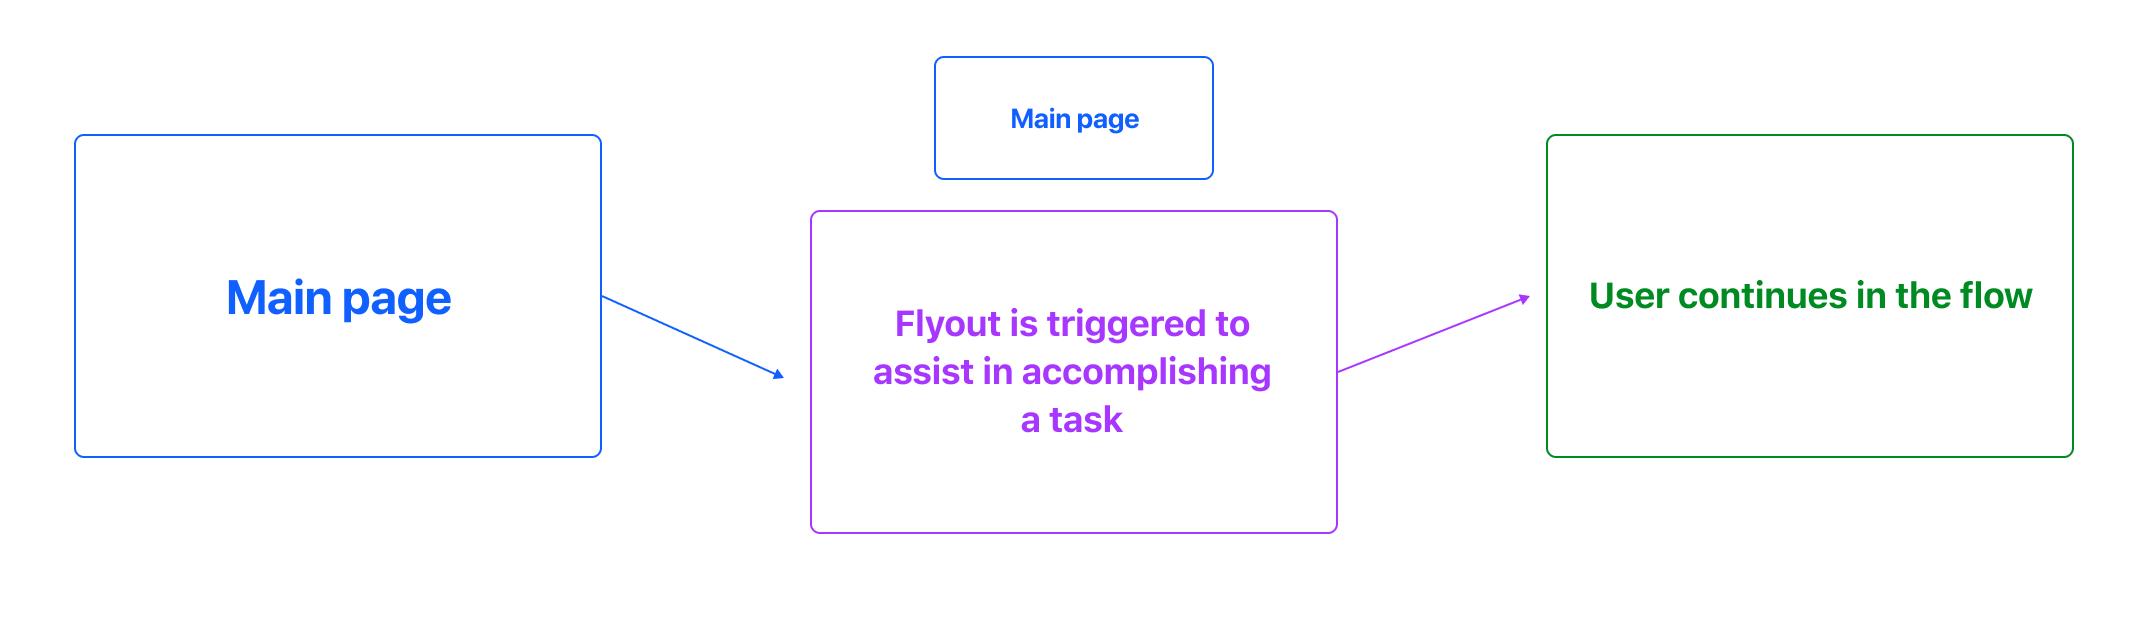
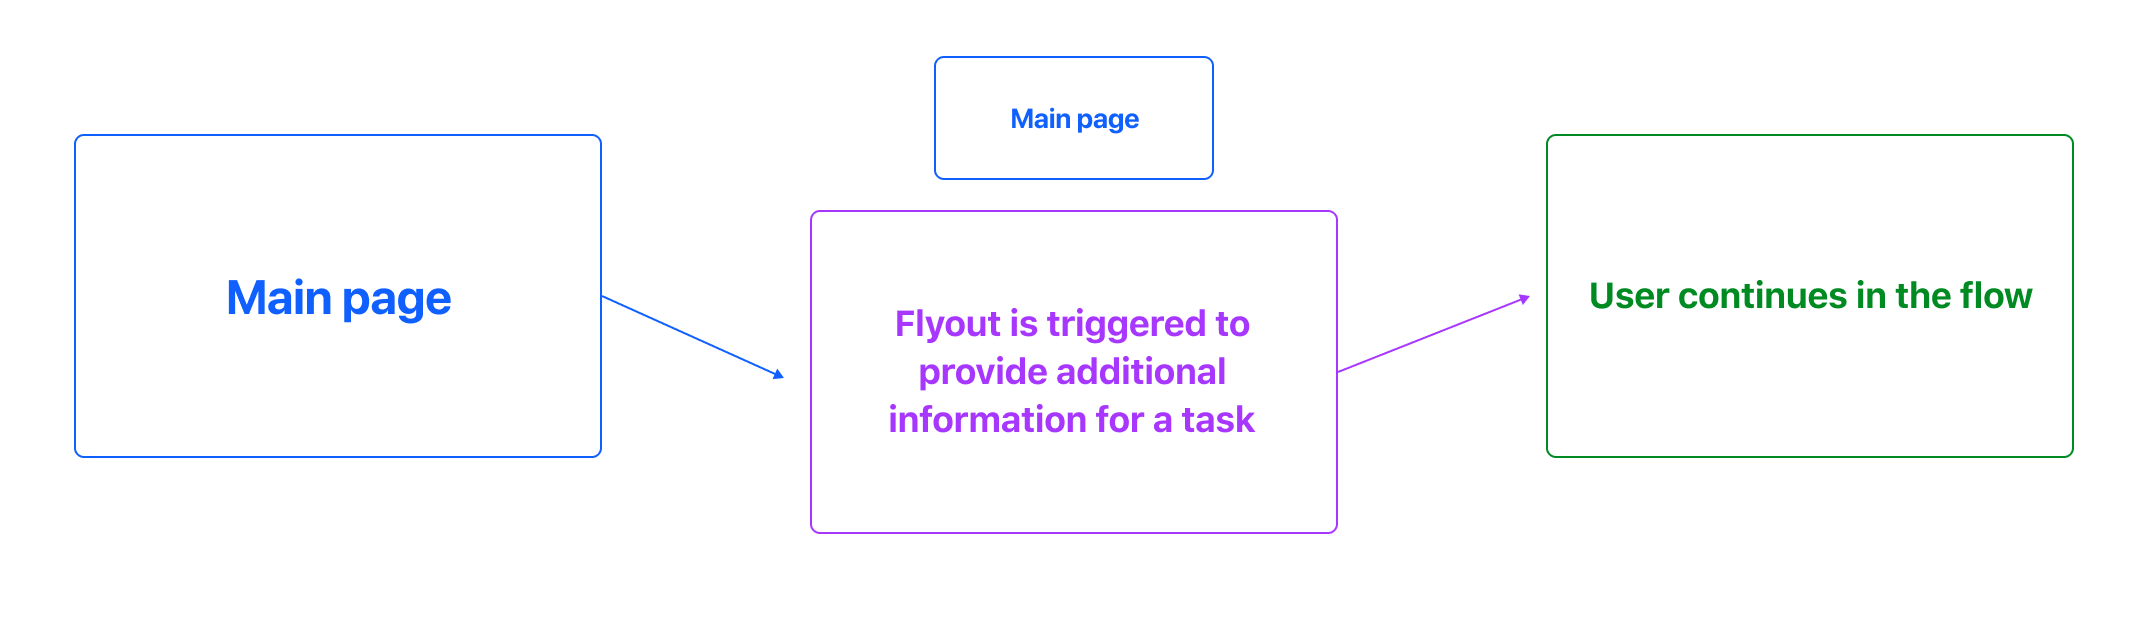
updated language and updated image

Changed region(s): [[0.4059, 0.5841, 0.5932, 0.7071]]

diff --git a/website/docs/components/flyout/partials/guidelines/guidelines.md b/website/docs/components/flyout/partials/guidelines/guidelines.md
@@ -2,13 +2,13 @@
 
 ### When to use
 
-- When displaying additional information, context, or details that extend or enhance an object or element on the main page.
+- When displaying additional information, context, or details that extend an object or element on the main page.
 - To present functions that are secondary to the main page or user flow.
 - To preview content without navigating or routing to a new page.
 
 ### When not to use
 
-- When requesting information or feedback from the user through a form. Instead, use a [Modal](/components/modal) or consider moving the content to its own page.
+- When requesting information or feedback from the user through a form. Instead, use a [Modal](/components/modal).
 - When displaying overly complex information, consider moving the content to its own page.
 
 ### Flyout vs Modal
